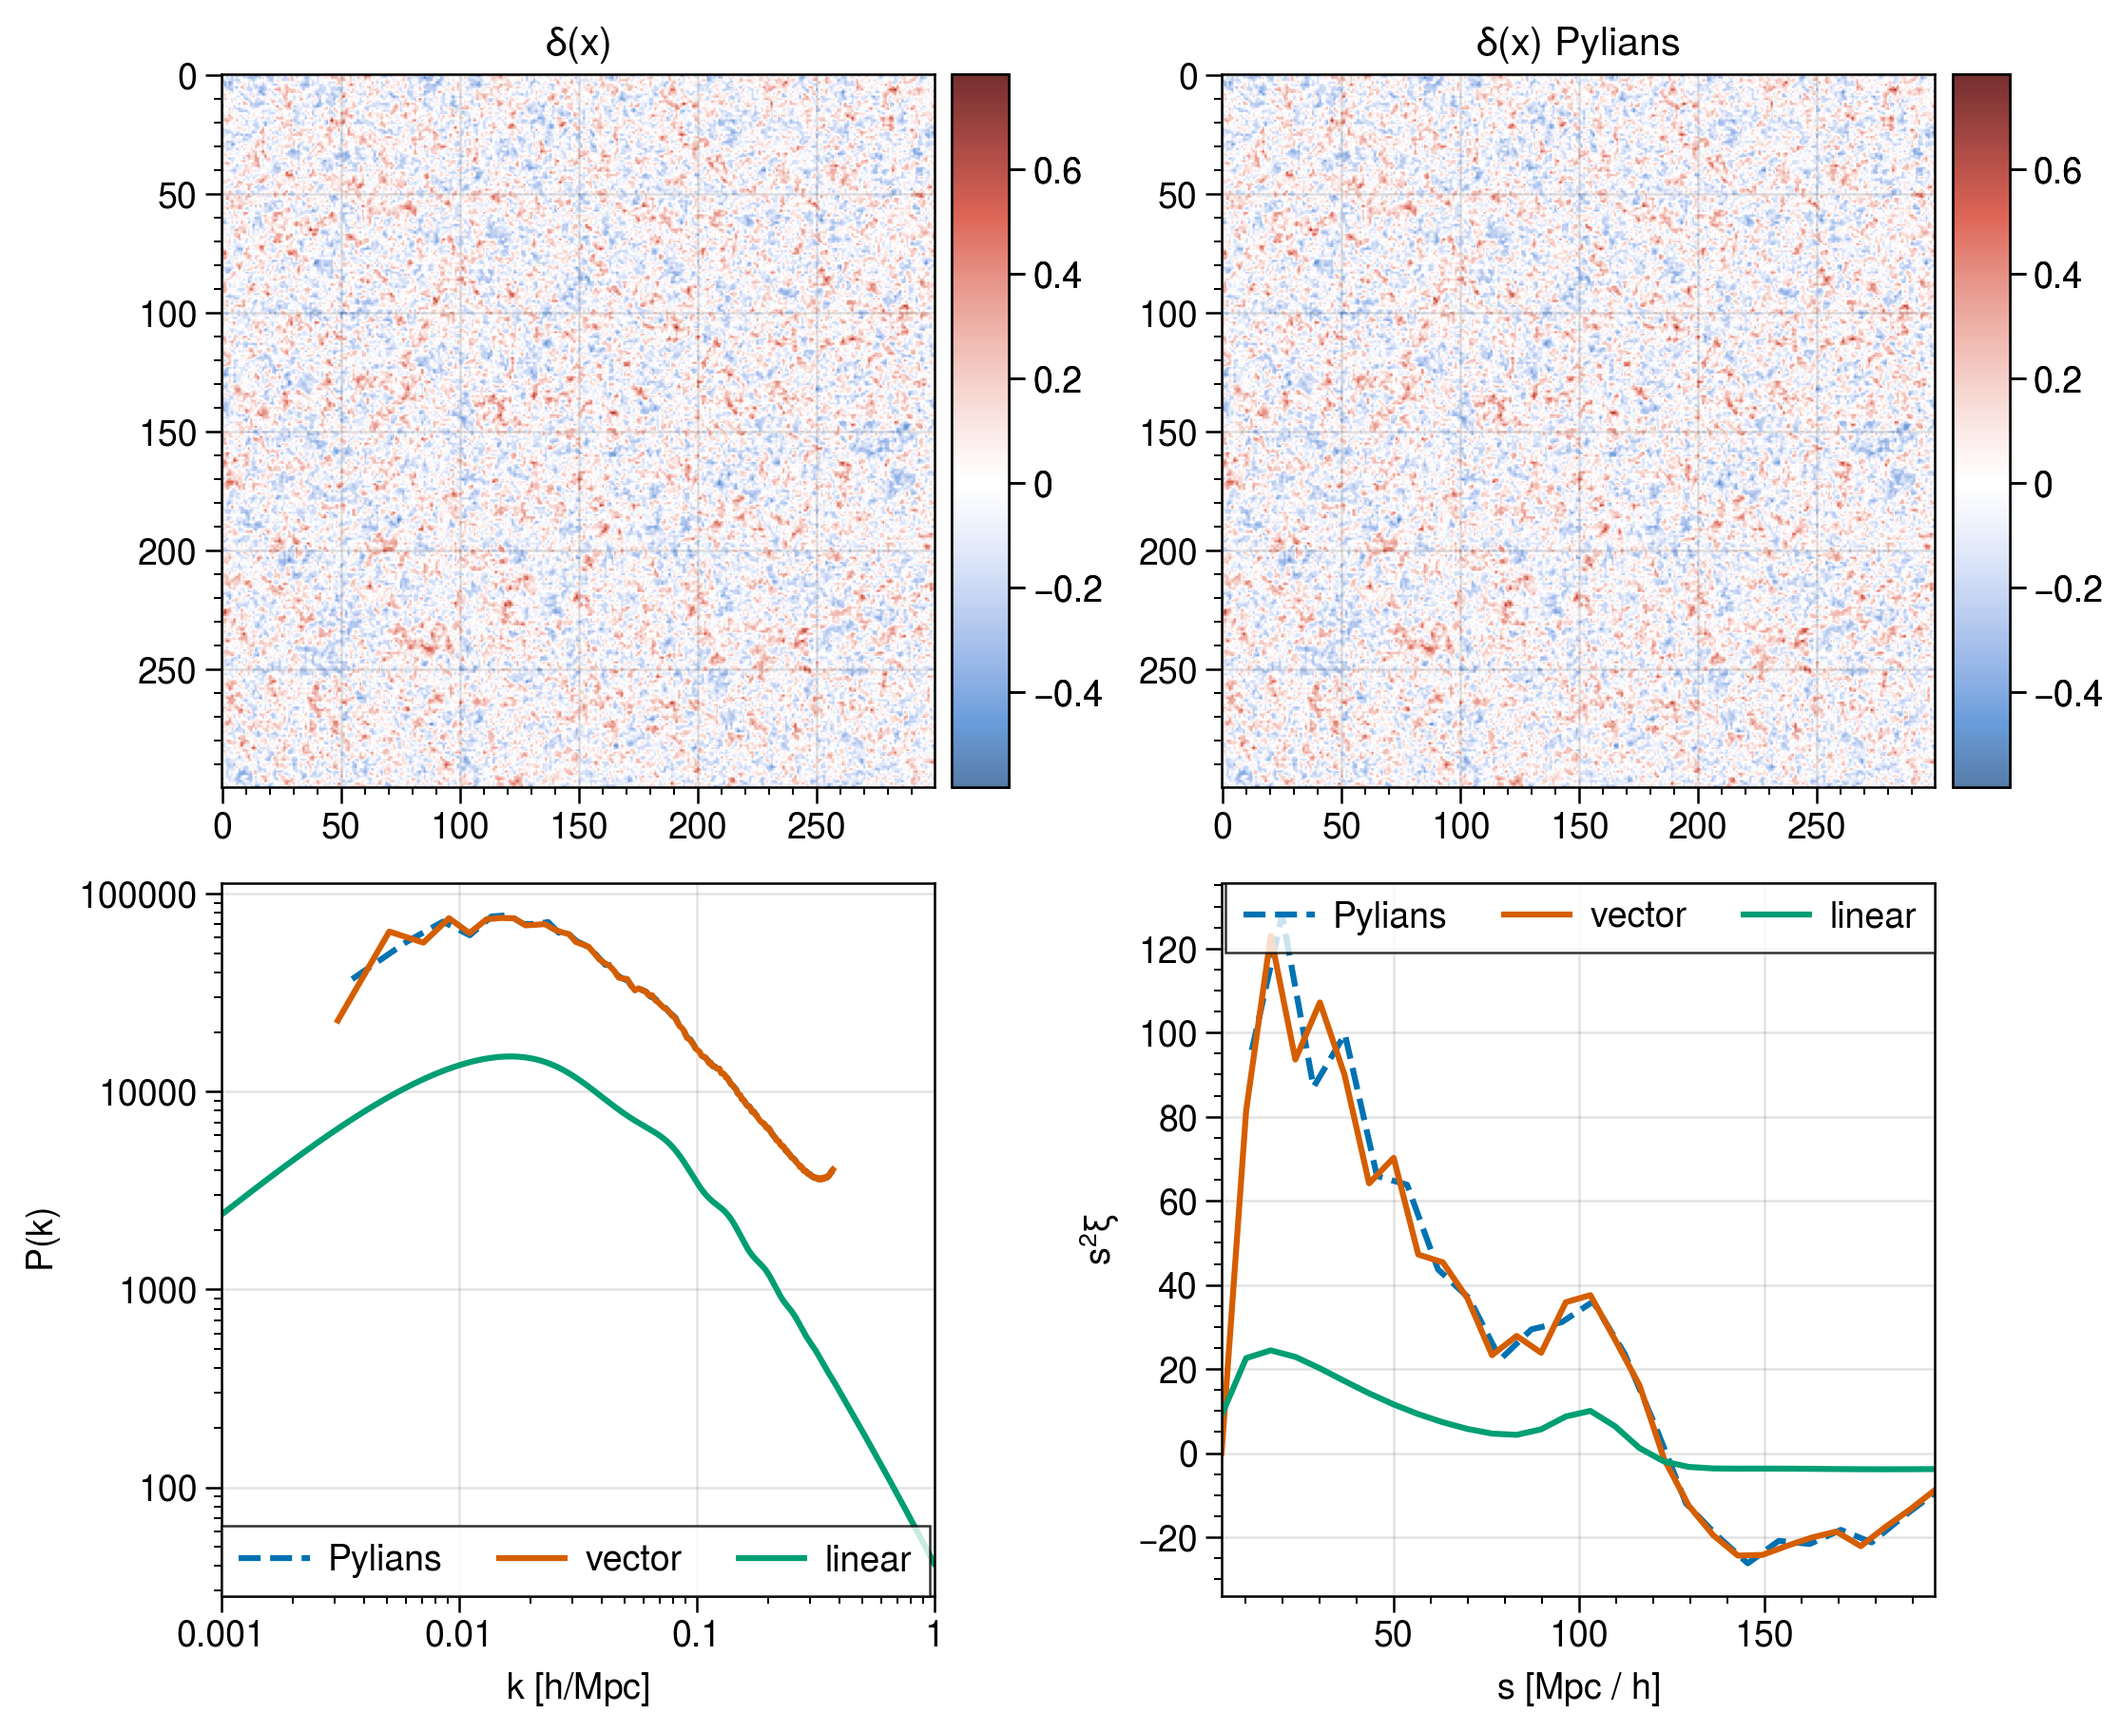
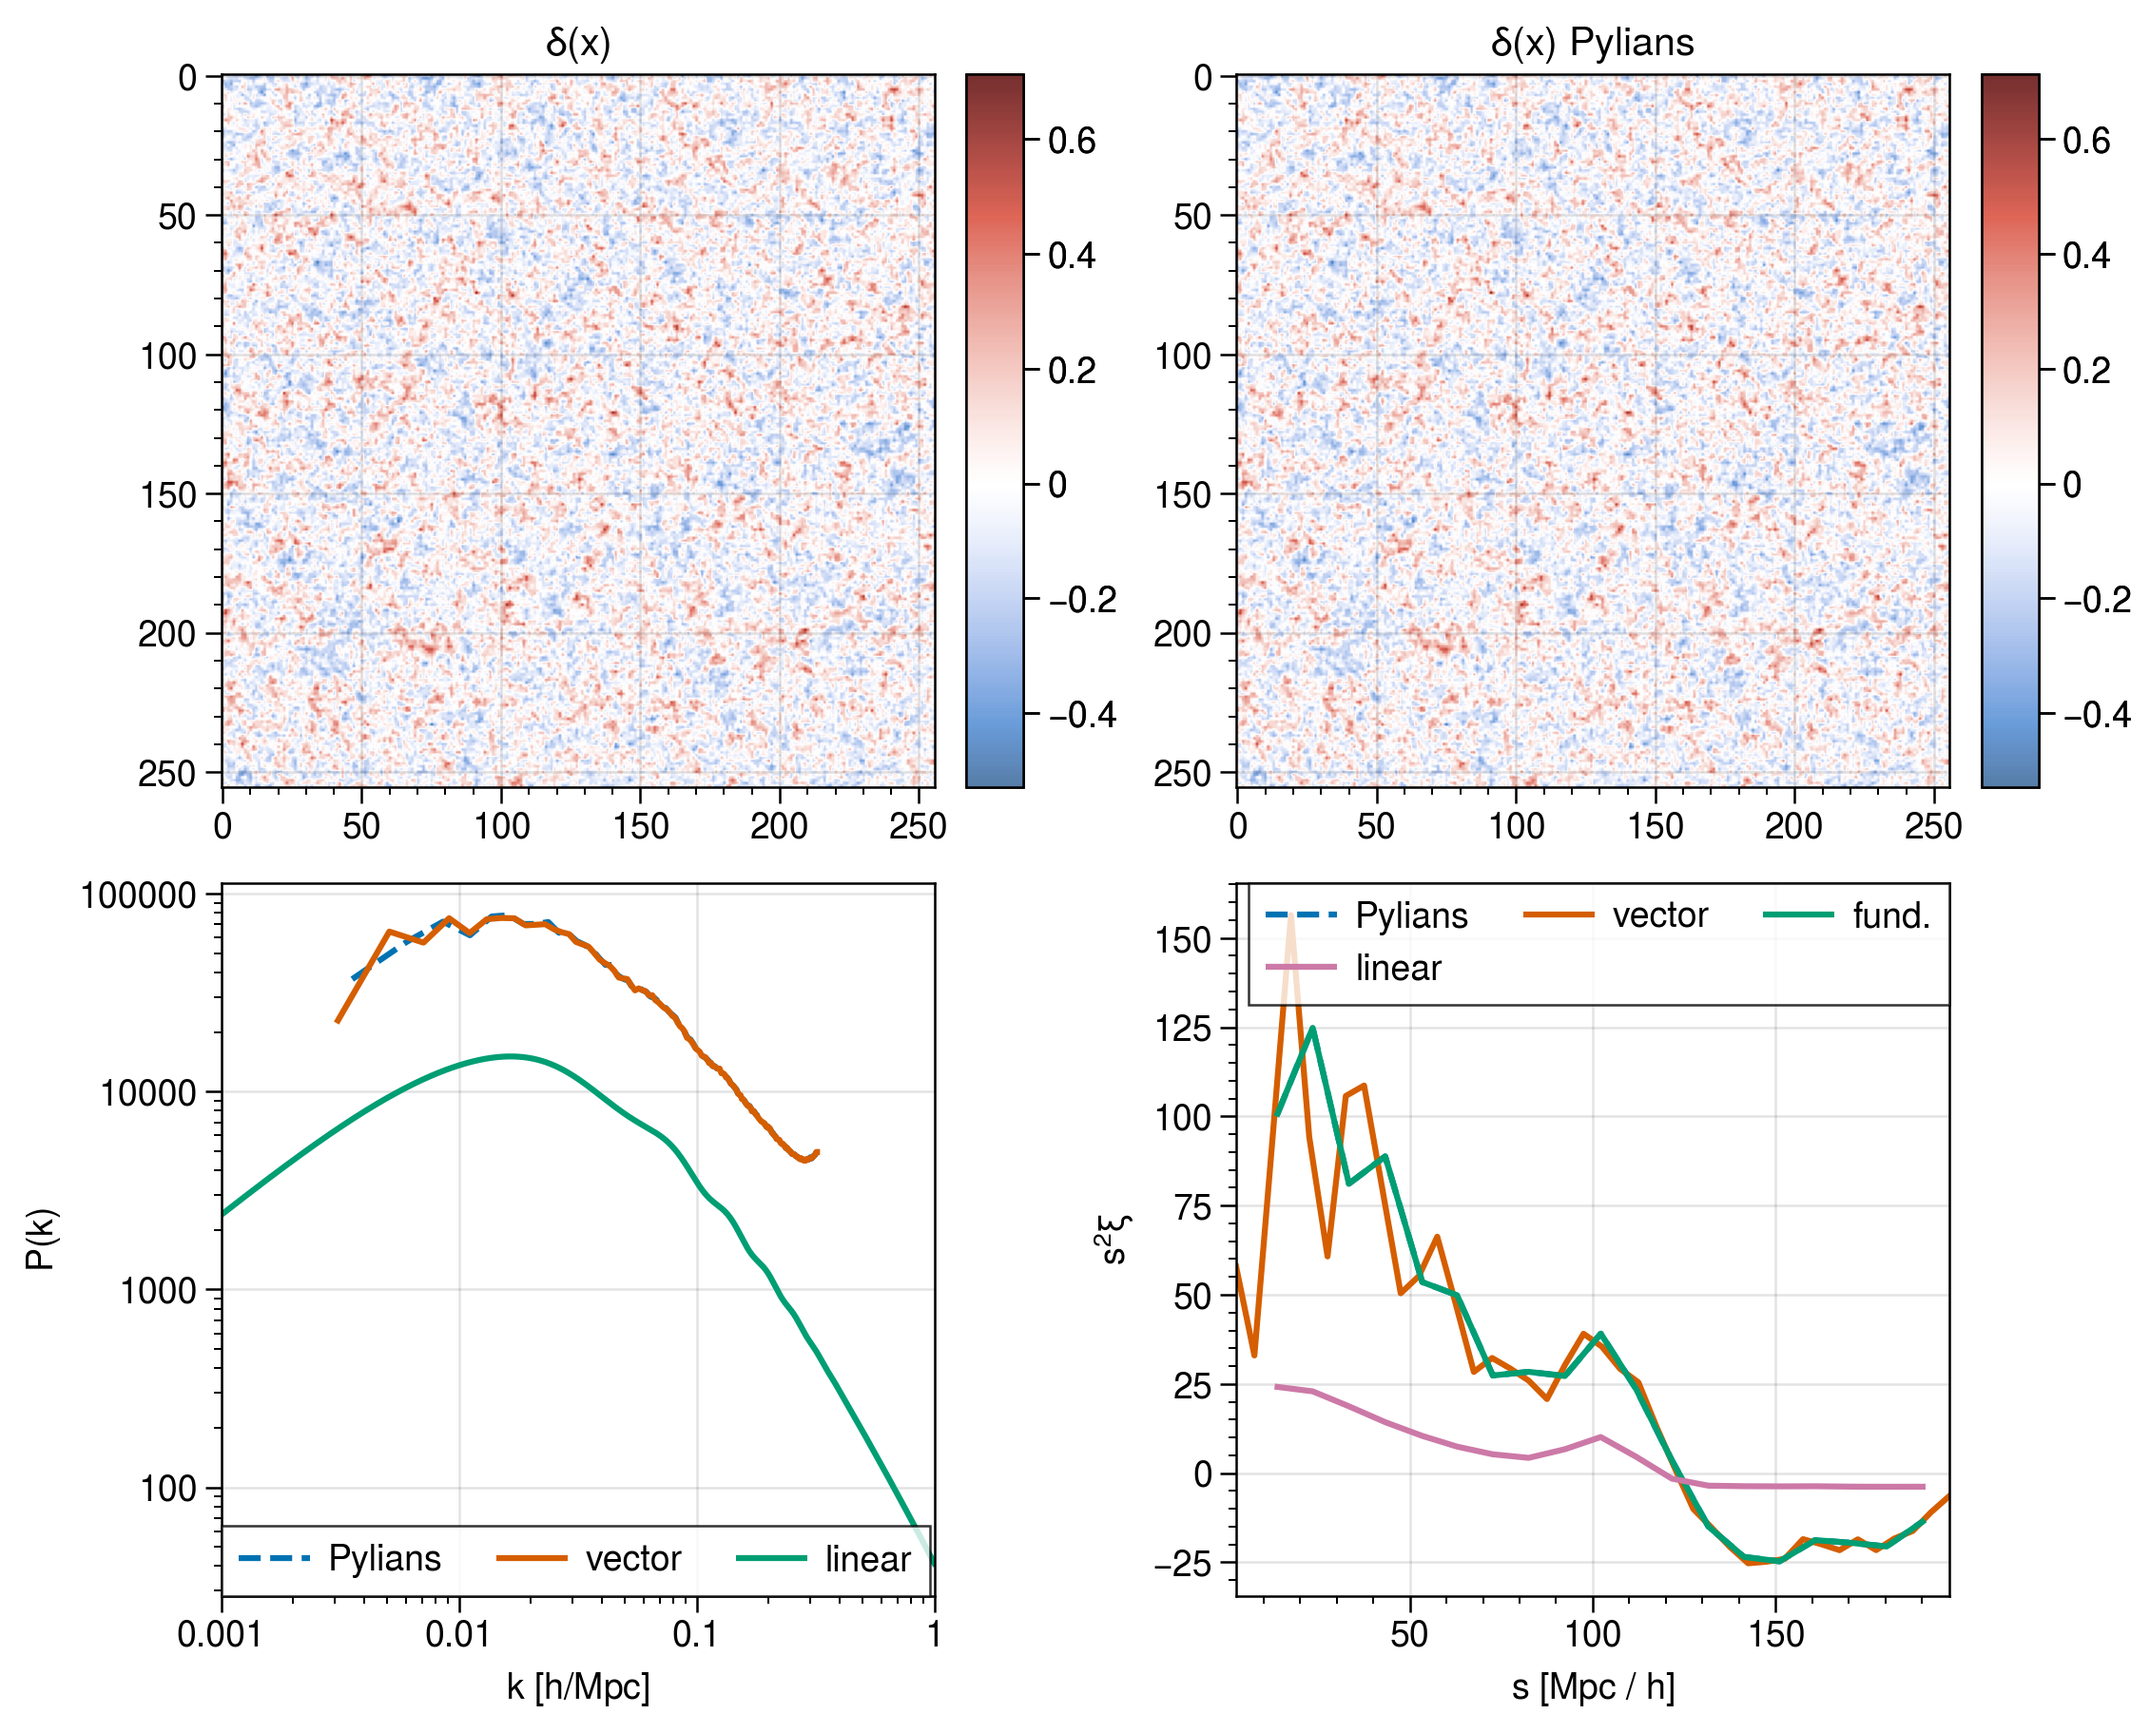
Updste

diff --git a/tests/correlations.py b/tests/correlations.py
@@ -16,7 +16,7 @@ import MAS_library as MASL
 import Pk_library as PKL
 
 
-n_bins = 300
+n_bins = 256
 n_part = 1000
 box_size = 2500.
 k_ny = jnp.pi * n_bins / box_size
@@ -90,21 +90,22 @@ mask = CF.r3D < 200
 r = CF.r3D[mask]
 xi = CF.xi[mask]
 ax[3].plot(r, r**2*xi[:,0], label='Pylians', ls = '--')
-
-r, xi, modes = xi_vec(delta, box_size, kedges) 
-#r, xi, modes = xi_vec_fundamental(delta, box_size) 
+s_edges = jnp.linspace(0, 200, 41)
+r, xi, modes = xi_vec(delta, box_size, s_edges) 
+ax[3].plot(r, r**2*xi[:,0], label='vector')
+r, xi, modes = xi_vec_fundamental(delta, box_size) 
 mask = r < 200
 r = r[mask]
 xi = xi[mask]
-ax[3].plot(r, r**2*xi[:,0], label='vector')
+ax[3].plot(r, r**2*xi[:,0], label='fund.')
 
 z = 0.466
 klin = np.logspace(-3, 0, 2048)
 plin = jc.power.linear_matter_power(jc.Planck15(), klin, a=1. / (1 + z), transfer_fn=jc.transfer.Eisenstein_Hu)
 ax[2].plot(klin, plin, label='linear')
 ax[2].legend(loc='ll')
-r, xi = xicalc_trapz(klin, plin, 2., r)
-ax[3].plot(r, r**2*xi, label='linear')
+r, xi0, xi2, xi4 = xicalc_trapz(klin, plin, 2., r)
+ax[3].plot(r, r**2*xi0, label='linear')
 ax[3].legend()
 ax[3].format(xlabel='$s$ [Mpc / $h$]', ylabel=r'$s^2\xi$')#, yscale='symlog')
 ax[0].format(title='$\delta(x)$')

diff --git a/src/correlations.py b/src/correlations.py
@@ -207,11 +207,12 @@ def powspec_vec_fundamental(delta, box_size):
     
     
 @jax.jit
-def xi_vec(delta, box_size, k_edges):
+def xi_vec(delta, box_size, s_edges):
 
     dims = delta.shape[0]
     middle = dims // 2
     kF = 2.0*jnp.pi/box_size
+    k_edges =  kF * s_edges * dims / box_size
     kN = middle*kF
     kmax_par = middle
     prefact = jnp.pi / dims
@@ -248,7 +249,7 @@ def xi_vec(delta, box_size, k_edges):
     kz = jnp.broadcast_to(ki[None, None, :], (dims, dims, dims))
     
     k = jnp.sqrt(kx**2 + ky**2 + kz**2)
-    k_index = jnp.int32(k)
+    #k_index = jnp.int32(k)
         
     k_par = kz
     mu = k_par / k
